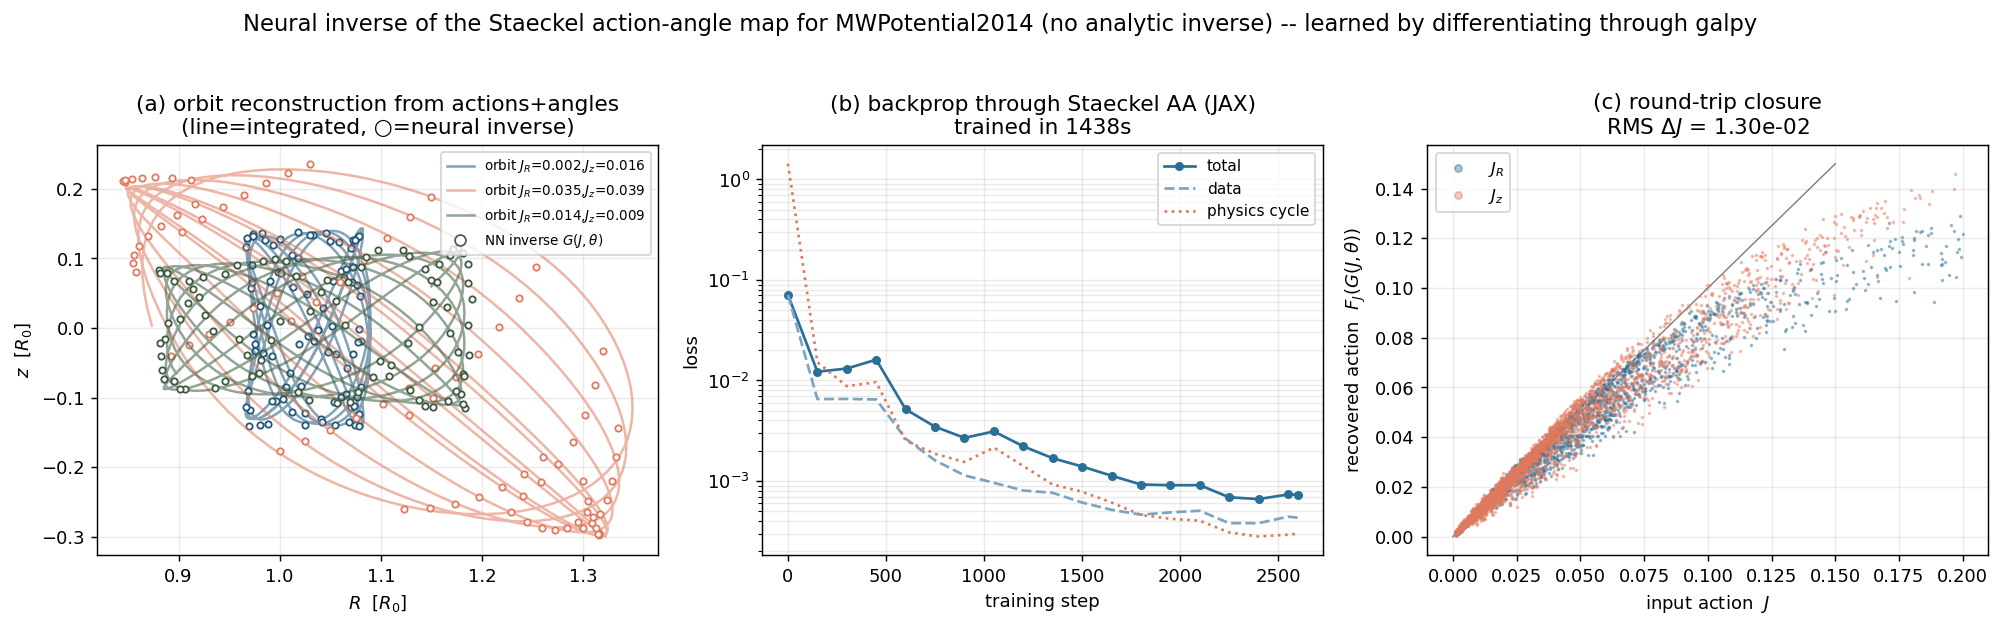
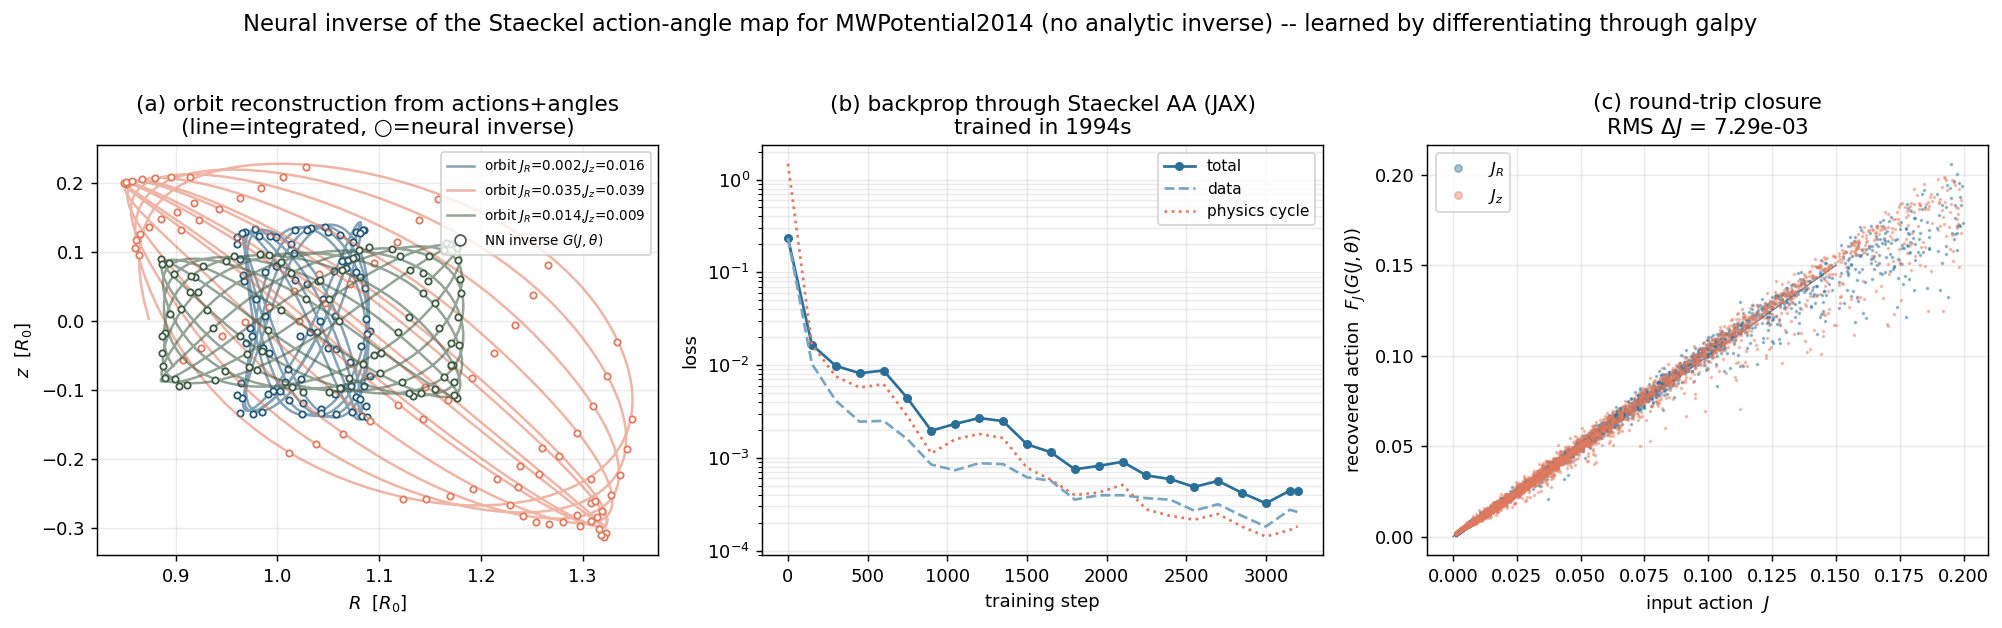
g20 Staeckel inverse: fix high-action bias (box sizing + weighting + sentinel mask)
The recovered action was biased low at high J_R/J_z because the output box
clipped the (large-excursion) high-action tori. Enlarge the output + data boxes
to the true high-J extent, soften the action weight to 1/sqrt(J_R+J_z), and mask
the Staeckel unbound sentinel that the larger box makes reachable. Round-trip
RMS dJ 1.30e-2 -> 7.29e-3, no high-J bias; orbit reconstruction tracks the full
outer-orbit envelope.

Claude-Session: https://claude.ai/code/session_01MgPfLBMhm6aEYwVtaQ7jMm

diff --git a/paper/figures/g20_neural_staeckel_inverse/nn_staeckel_inverse_jax.py b/paper/figures/g20_neural_staeckel_inverse/nn_staeckel_inverse_jax.py
@@ -30,8 +30,11 @@ DELTA = float(
 )
 _aAS = actionAngleStaeckel(pot=MWPotential2014, delta=DELTA, c=False)
 
+# output box sized to contain the FULL high-action tori (J_R,J_z up to ~0.2 at
+# L_z=1 reach R~1.9, |vR|~0.6, |z|~0.8, |vz|~0.6); an undersized box clips them
+# and biases the recovered action low.
 CEN = jnp.array([1.0, 0.0, 0.0, 0.0])
-SCL = jnp.array([0.45, 0.32, 0.45, 0.32])
+SCL = jnp.array([0.95, 0.72, 0.92, 0.72])
 J_LO, J_HI = 1e-3, 0.2
 
 
@@ -70,10 +73,10 @@ def gen_dataset(n, seed=0):
         [numpy.full(n // 3, s) for s in (1.0, 0.55, 0.28)]
     )[:n]
     sc = numpy.concatenate([sc, numpy.ones(n - sc.shape[0])])
-    R = jnp.asarray(1.0 + sc * 0.45 * (2 * rng.rand(n) - 1))
-    vR = jnp.asarray(sc * 0.32 * (2 * rng.rand(n) - 1))
-    z = jnp.asarray(sc * 0.45 * (2 * rng.rand(n) - 1))
-    vz = jnp.asarray(sc * 0.32 * (2 * rng.rand(n) - 1))
+    R = jnp.asarray(1.0 + sc * 0.9 * (2 * rng.rand(n) - 1))
+    vR = jnp.asarray(sc * 0.7 * (2 * rng.rand(n) - 1))
+    z = jnp.asarray(sc * 0.9 * (2 * rng.rand(n) - 1))
+    vz = jnp.asarray(sc * 0.7 * (2 * rng.rand(n) - 1))
     JR, Jz, thR, thz = jax.jit(forward)(R, vR, z, vz)
     JR = numpy.asarray(JR); Jz = numpy.asarray(Jz)
     m = (JR > J_LO) & (JR < J_HI) & (Jz > J_LO) & (Jz < J_HI)
@@ -83,9 +86,10 @@ def gen_dataset(n, seed=0):
 
 def loss_fn(p, model, R, vR, z, vz, JR, Jz, thR, thz, lam):
     pred = model.apply(p, feats(JR, Jz, thR, thz))
-    # action-weight ~1/(JR+Jz) so small (near-circular / near-planar) orbits are
-    # fit as precisely as the big ones (unweighted MSE favours the big orbits).
-    w = 1.0 / (JR + Jz + 0.02)
+    # action-weight ~1/sqrt(JR+Jz): up-weights small (near-circular / near-planar)
+    # orbits without crushing the high-action end (a full 1/(JR+Jz) gives the
+    # small tori ~14x the weight and leaves the big tori under-fit / biased).
+    w = 1.0 / jnp.sqrt(JR + Jz + 0.02)
     sup = jnp.sum(w * jnp.sum((pred - jnp.stack([R, vR, z, vz], -1)) ** 2, -1)) / jnp.sum(w)
     JRh, Jzh, thRh, thzh = forward(pred[:, 0], pred[:, 1], pred[:, 2], pred[:, 3])
     # per-sample cycle residual, masked where the Staeckel forward is non-finite
@@ -93,12 +97,17 @@ def loss_fn(p, model, R, vR, z, vz, JR, Jz, thR, thz, lam):
     # loss finite and, with optax.zero_nans as a backstop, the update stable.
     res = ((JRh - JR) ** 2 + (Jzh - Jz) ** 2
            + (1 - jnp.cos(thRh - thR)) + (1 - jnp.cos(thzh - thz)))
-    ok = jnp.isfinite(res)
+    # Mask samples where the net briefly proposed an unbound/degenerate orbit:
+    # the Staeckel forward returns a huge finite "9999.99" sentinel (survives an
+    # isfinite check) or a NaN angle -- either would blow up / diverge the cycle
+    # gradient. The larger output box makes this reachable (the old small box
+    # confined G to bound orbits). Real actions are < 0.2 here.
+    ok = jnp.isfinite(res) & (JRh < 1.0) & (Jzh < 1.0)
     cyc = jnp.sum(jnp.where(ok, w * res, 0.0)) / (jnp.sum(jnp.where(ok, w, 0.0)) + 1e-6)
     return sup + lam * cyc, (sup, cyc)
 
 
-def train(n_steps=2600, batch=512, lr=2e-3, warmup=400, seed=0):
+def train(n_steps=3200, batch=512, lr=2e-3, warmup=400, seed=0):
     R, vR, z, vz, JR, Jz, thR, thz = gen_dataset(40000, seed=seed)
     nd = int(R.shape[0])
     print(f"dataset {nd}, JR<={float(JR.max()):.3f} Jz<={float(Jz.max()):.3f}")

diff --git a/paper/figures/g20_neural_staeckel_inverse/README.md b/paper/figures/g20_neural_staeckel_inverse/README.md
@@ -56,3 +56,15 @@ CUDA_VISIBLE_DEVICES=0 PYTHONUNBUFFERED=1 \
   much slower on this 2D-quadrature forward, so the headline run is JAX.
 - The full 6D problem (free `L_z`, angle `theta_phi`) is a straightforward
   extension of this fixed-`L_z` meridional demo.
+
+## Convergence note (box sizing)
+
+The dominant source of a high-action *bias* (recovered J below the diagonal at
+large J_R/J_z) was **output-box clipping**: high-action tori at L_z=1 reach
+R~1.9, |vR|~0.6, |z|~0.8, |vz|~0.6, so a box that only permits R<=1.45 /
+|.|<=0.32-0.45 saturates the net at the wall and the reconstructed orbit is
+artificially confined -> its actions come out low. Sizing the output box (and
+the data-sampling box) to the true high-J extent, softening the action weight to
+1/sqrt(J_R+J_z), and masking the Staeckel "9999.99" unbound sentinel (now
+reachable with the larger box) brought the round-trip RMS from 1.3e-2 to 7.3e-3
+with no high-J bias.
